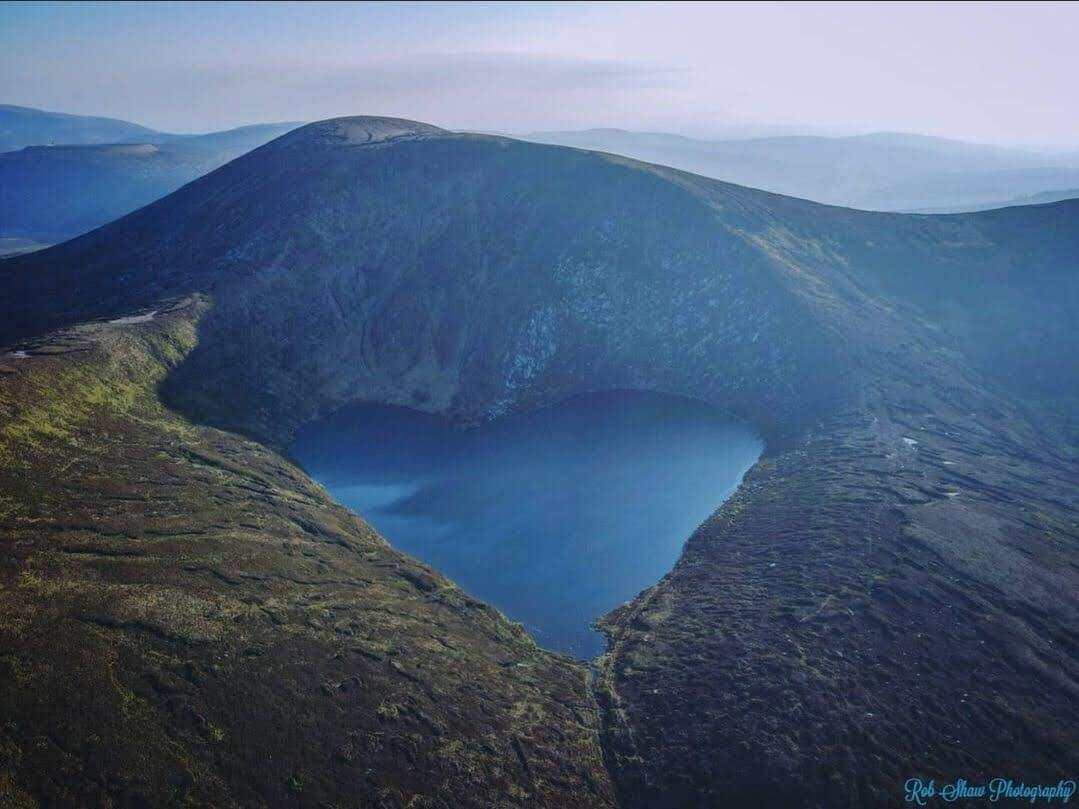
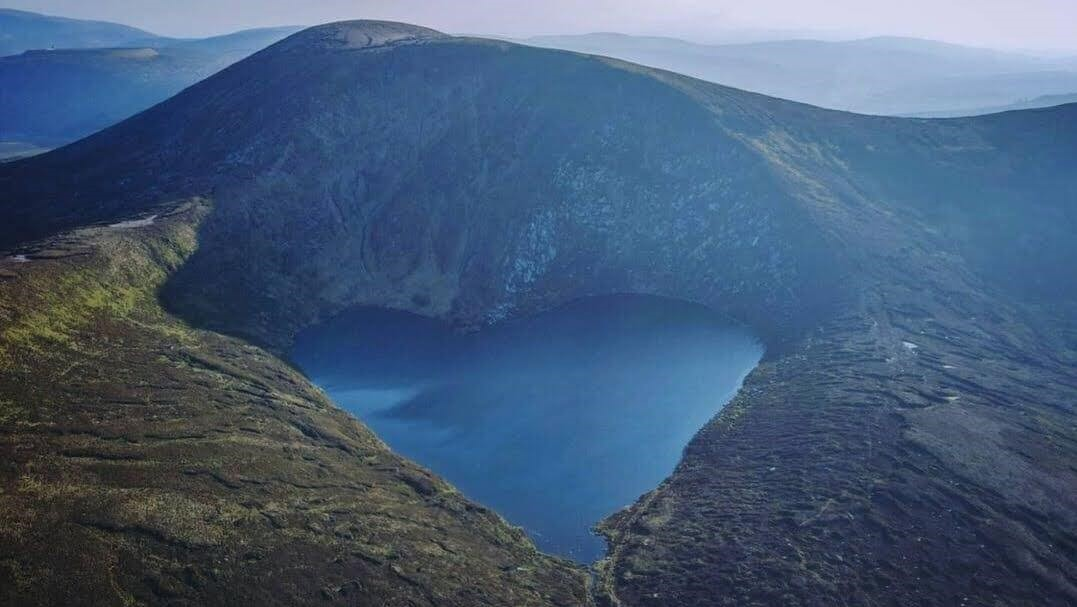
Replace slideshow images with edited ones to same ratio

diff --git a/index.html b/index.html
@@ -86,35 +86,35 @@
 
                             <!-- images added here, all photos by Robert Shaw @rob_shaw_photography -->
                             <div class="firstSlide"> 
-                              <img src="assets/images/imageOne.jpg" alt="mountain lake">
+                              <img src="assets/images/imageOne.jpg" alt="mountain heart shapped lake" width="auto" height="auto">
                             </div>
 
                             <div class="firstSlide"> 
-                                <img src="assets/images/imageTwo.jpg" alt="seashore">
+                                <img src="assets/images/imageTwo.jpg" alt="seashore in color of Irish flag" width="auto" height="auto">
                             </div>
  
                             <div class="firstSlide"> 
-                                <img src="assets/images/imageThree.jpg" alt="city">
+                                <img src="assets/images/imageThree.jpg" alt="city backdrop" width="auto" height="auto">
                             </div>
                             
                             <div class="firstSlide"> 
-                                <img src="assets/images/imageFive.jpg" alt="swan murming">
+                                <img src="assets/images/imageFive.jpg" alt="starling murmuration" width="auto" height="auto">
                             </div>
                               
                             <div class="firstSlide"> 
-                                <img src="assets/images/imageFive.jpg" alt="tree">
+                                <img src="assets/images/imageFive.jpg" alt="tree with red sky" width="auto" height="auto">
                             </div>
                             
                             <div class="firstSlide"> 
-                                <img src="assets/images/imageSix.jpg" alt="sea arch">
+                                <img src="assets/images/imageSix.jpg" alt="sea arch" width="auto" height="auto">
                             </div>
                               
                             <div class="firstSlide"> 
-                                <img src="assets/images/imageSeven.jpg" alt="bride">
+                                <img src="assets/images/imageSeven.jpg" alt="bride on beach" width="auto" height="auto">
                             </div>
                               
                             <div class="firstSlide"> 
-                                <img src="assets/images/imageEight.jpg" alt="mountain road">
+                                <img src="assets/images/imageEight.jpg" alt="mountain road" width="auto" height="auto">
                             </div>
 
                             <!-- Next and previous buttons -->

diff --git a/assets/css/style.css b/assets/css/style.css
@@ -115,9 +115,7 @@ h1 {
 }
 
 .firstSlide img {
-    width: auto;
     max-width: 100%;
-    height: auto;
     margin-top: 20px;
     margin-bottom: 20px;
 }
